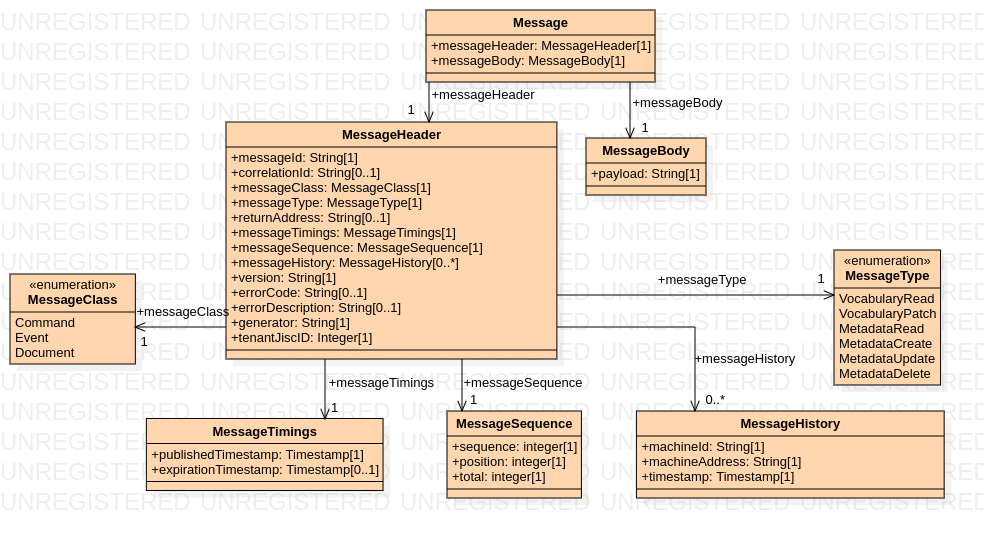
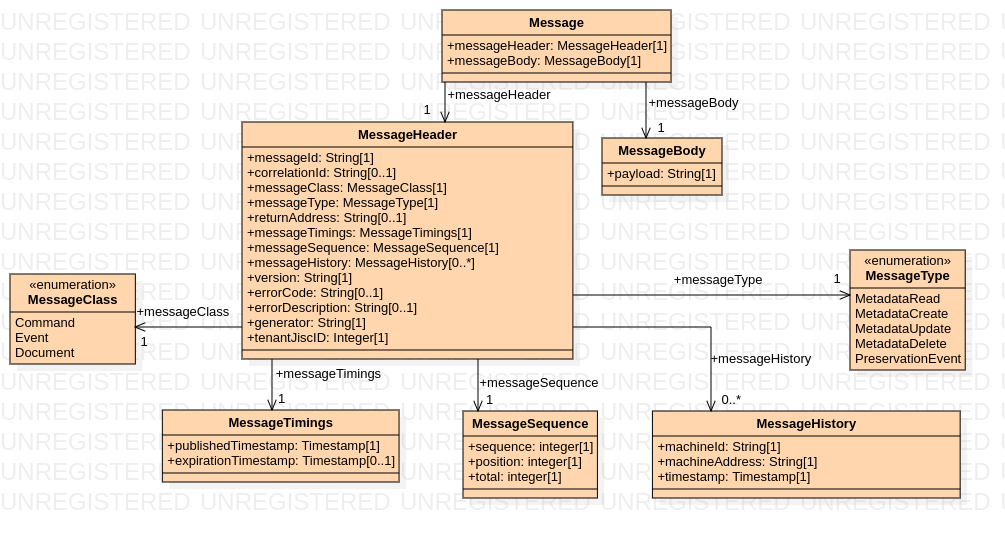
Additional header documentation and tests.

diff --git a/message-api-schema-validator/tests/test_header.py b/message-api-schema-validator/tests/test_header.py
@@ -1,6 +1,18 @@
 
-def test_header_is_valid(valid_file_against_schema):
+def test_metadata_create_header_is_valid(valid_file_against_schema):
     valid_file_against_schema(
         'https://www.jisc.ac.uk/rdss/schema/message/header.json/#/definitions/Header',
-        '../messages/header/header.json'
+        '../messages/header/metadata_create_header.json'
+    )
+
+def test_metadata_create_error_header_is_valid(valid_file_against_schema):
+    valid_file_against_schema(
+        'https://www.jisc.ac.uk/rdss/schema/message/header.json/#/definitions/Header',
+        '../messages/header/metadata_create_error_header.json'
+    )
+
+def test_preservation_event_header_is_valid(valid_file_against_schema):
+    valid_file_against_schema(
+        'https://www.jisc.ac.uk/rdss/schema/message/header.json/#/definitions/Header',
+        '../messages/header/preservation_event_header.json'
     )
